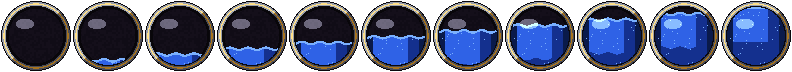
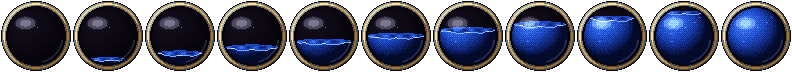
Orbes de vida y maná como esfera, sin el rectángulo adentro, con ola en cada nivel
El arte nuevo sale de PixelForja (submódulo en la rama claude/ecstatic-ramanujan-oq0r0o del taller) y el kit se
regeneró con npm run kit: solo cambian los cuatro PNG de orbes y los cuadros de orbe_*_ola (4 a 36). El HUD anima la
superficie en todos los niveles con líquido, la ola también se tiñe al quedarse sin maná y el orbe solo se ve vacío
en 0 y lleno en 100 %. Prueba e2e nueva de los niveles del orbe.

Claude-Session: https://claude.ai/code/session_01FVGDw8m8HkUtXF2k5wxUDf

diff --git a/src/game/ui/HudCombate.ts b/src/game/ui/HudCombate.ts
@@ -61,9 +61,12 @@ export class HudCombate {
     this.orbeMana = escena.add.image(0, 0, k('orbe_mana'), 10).setOrigin(0, 1)
     this.olaVida = escena.add.sprite(0, 0, k('orbe_vida_ola'), 0).setOrigin(0, 1).setVisible(false)
     this.olaMana = escena.add.sprite(0, 0, k('orbe_mana_ola'), 0).setOrigin(0, 1).setVisible(false)
-    for (const [n, s] of [['orbe_vida_ola', this.olaVida], ['orbe_mana_ola', this.olaMana]] as const) {
-      if (!escena.anims.exists(n)) escena.anims.create({ key: n, frames: escena.anims.generateFrameNumbers(k(n), { start: 0, end: 3 }), frameRate: 6, repeat: -1 })
-      s.play(n)
+    // una ola por nivel: el cuadro (N - 1) * 4 + t es el nivel N (1 a 9) en el paso t
+    for (const n of ['orbe_vida_ola', 'orbe_mana_ola']) {
+      for (let nivel = 1; nivel <= 9; nivel++) {
+        const key = `${n}_${nivel}`
+        if (!escena.anims.exists(key)) escena.anims.create({ key, frames: escena.anims.generateFrameNumbers(k(n), { start: (nivel - 1) * 4, end: (nivel - 1) * 4 + 3 }), frameRate: 6, repeat: -1 })
+      }
     }
     this.numVida = texto(escena, 0, 0, '', 'fuente_ui', 1, { origen: [0.5, 0.5], tinte: 0xffe9e9 })
     this.numMana = texto(escena, 0, 0, '', 'fuente_ui', 1, { origen: [0.5, 0.5], tinte: 0xe0ecff })
@@ -192,8 +195,10 @@ export class HudCombate {
     this.numVida.setText(String(Math.ceil(p.vida)))
     this.numMana.setText(String(Math.floor(p.mana)))
     this.flashMana = Math.max(0, this.flashMana - dt)
-    if (this.flashMana > 0) this.orbeMana.setTint(0xff7070)
-    else this.orbeMana.clearTint()
+    for (const o of [this.orbeMana, this.olaMana]) {
+      if (this.flashMana > 0) o.setTint(0xff7070)
+      else o.clearTint()
+    }
 
     // barra del jefe
     const j = this.mundo.jefe
@@ -243,12 +248,26 @@ export class HudCombate {
   }
 
   private pintarOrbe(img: Phaser.GameObjects.Image, ola: Phaser.GameObjects.Sprite, f: number): void {
-    const n = Math.round(f * 10)
-    // a media altura el orbe usa su versión con olas moviéndose
-    const usaOla = n >= 4 && n <= 6
+    // vacío solo en 0 y lleno solo en 100 %: con 1 punto de vida todavía se ve un poquito de líquido
+    const n = f <= 0 ? 0 : f >= 1 ? 10 : Phaser.Math.Clamp(Math.round(f * 10), 1, 9)
+    // con líquido y aire la superficie siempre se mueve, cada nivel con su propia ola
+    const usaOla = n >= 1 && n <= 9
     ola.setVisible(usaOla)
     img.setVisible(!usaOla)
-    if (!usaOla) img.setFrame(n)
+    if (!usaOla) {
+      img.setFrame(n)
+      return
+    }
+    const key = `${ola === this.olaVida ? 'orbe_vida_ola' : 'orbe_mana_ola'}_${n}`
+    // al cambiar de nivel sigue en el mismo paso de la ola, así no salta
+    if (ola.anims.currentAnim?.key !== key) ola.play({ key, startFrame: ola.anims.currentFrame ? ola.anims.currentFrame.index - 1 : 0 })
+  }
+
+  /** El nivel que muestra cada orbe (0 a 10), para las pruebas */
+  niveles() {
+    const de = (img: Phaser.GameObjects.Image, ola: Phaser.GameObjects.Sprite) =>
+      ola.visible ? Number(ola.anims.currentAnim?.key.split('_').pop()) : Number(img.frame.name)
+    return { vida: de(this.orbeVida, this.olaVida), mana: de(this.orbeMana, this.olaMana) }
   }
 
   destruir(): void {

diff --git a/e2e/combate.spec.ts b/e2e/combate.spec.ts
@@ -205,6 +205,30 @@ test.describe('Combate', () => {
     await expect.poll(async () => (await gancho<{ texto: string }>(page, 'hudNivel')).texto, { timeout: 10_000 }).toBe('¡Nivel 2!')
   })
 
+  test('los orbes muestran el nivel justo: lleno solo al 100 %, vacío solo en 0 y un poquito con 1 punto', async ({ page }) => {
+    await abrirMundo(page, 'sophie')
+    const orbes = () => gancho<{ vida: number; mana: number }>(page, 'hudOrbes')
+    const esperado = (f: number) => (f <= 0 ? 0 : f >= 1 ? 10 : Math.min(9, Math.max(1, Math.round(f * 10))))
+    await expect.poll(async () => (await orbes()).vida, { timeout: 10_000 }).toBe(10)
+    const c0 = await combate(page)
+    // a media vida
+    await gancho(page, 'danar', Math.round(c0.vidaMax * 0.45))
+    const c = await combate(page)
+    expect(c.caido).toBe(false)
+    await expect.poll(async () => (await orbes()).vida, { timeout: 10_000 }).toBe(esperado(c.vida / c.vidaMax))
+    expect((await orbes()).vida).toBeGreaterThan(1)
+    expect((await orbes()).vida).toBeLessThan(10)
+    // con 1 punto de vida no se ve vacío
+    await gancho(page, 'curarTodo')
+    const c1 = await combate(page)
+    await gancho(page, 'danar', c1.vidaMax - 1)
+    const c2 = await combate(page)
+    expect(c2.caido).toBe(false)
+    expect(c2.vida).toBeGreaterThan(0)
+    await expect.poll(async () => (await orbes()).vida, { timeout: 10_000 }).toBe(esperado(c2.vida / c2.vidaMax))
+    expect(await orbes().then((o) => o.vida)).toBeGreaterThanOrEqual(1)
+  })
+
   test('la interfaz de combate queda pegada al borde de abajo, sin encimarse', async ({ page }) => {
     await abrirMundo(page, 'sophie')
     const l = await gancho<{ orbeVida: R; orbeMana: R; cinturon: R; xp: R; botones: { x: number; y: number; lado: number }[] }>(page, 'hudCombate')

diff --git a/src/scenes/HUD.ts b/src/scenes/HUD.ts
@@ -99,7 +99,7 @@ export class HUD extends Phaser.Scene {
       this.game.events.off('nivel-subido', this.alNivel)
       this.game.events.off('rescate', this.alRescate)
       this.combate.destruir()
-      quitarGanchos('hudBanner', 'hudCartel', 'abrirPausa', 'hudCombate', 'hudNivel')
+      quitarGanchos('hudBanner', 'hudCartel', 'abrirPausa', 'hudCombate', 'hudOrbes', 'hudNivel')
     })
     alCambiarEscala(this, () => this.acomodar())
     this.actualizarContadores()
@@ -109,6 +109,7 @@ export class HUD extends Phaser.Scene {
       hudCartel: () => (this.cartel ? { abierto: true, ...this.cartelInfo } : { abierto: false }),
       abrirPausa: (() => this.abrirPausa()) as never,
       hudCombate: () => this.combate.layout(),
+      hudOrbes: () => this.combate.niveles(),
       hudNivel: () => ({ texto: this.bNivel.text, alpha: this.bNivel.alpha, rescate: this.bRescate.text, alphaRescate: this.bRescate.alpha }),
     })
   }

diff --git a/PROGRESO.md b/PROGRESO.md
@@ -50,6 +50,7 @@ Memoria de la sesión larga. Se actualiza al cerrar cada tarea.
 - F5, audio: el contexto se despierta al volver a ver la página (`visibilitychange`, `pageshow`, `focus`) y en cada toque. Los bucles son de WebAudio, no se cortan.
 - F5, pantalla completa: botón en la pausa (Android y PC). En iPad no existe la API y el botón dice "Instalar" y abre un panel con 3 pasos. Faltan los íconos de Safari: ASSETS_PENDIENTES.md #28.
 - F5, el kit ya está guardado en el repo (`public/assets/kit`, 634 archivos), así que construir NO necesita el submódulo privado. Por eso el plan B de Netlify es mucho más simple de lo que decía el plan: un GitHub Action manual (`.github/workflows/netlify.yml`) sin llaves del submódulo.
+- Orbes de vida y maná rehechos en PixelForja a pedido de Rick (se veía un rectángulo dentro del líquido). El defecto estaba en el arte, no en el juego: `orb()` en `tools/pixel_forja/src/engine/ui/hud.ts` sombreaba con cortes rectos. Ahora es una esfera de vidrio con tramado 4 x 4, superficie en elipse con espuma, burbujas y aro de hierro con hilo de oro. `orbe_*_ola` pasa a 36 cuadros (una ola por nivel 1 a 9). El HUD usa la ola en todos los niveles con líquido y aire, y el orbe solo se ve vacío en 0 y lleno en 100 % (con 1 punto de vida se ve un poquito). La regla de no tocar el taller se rompió a propósito porque Rick pidió el arreglo y el arte tiene que salir de PixelForja, no de código del juego. El cambio está en la rama `claude/ecstatic-ramanujan-oq0r0o` de `pixel_forja` y el submódulo apunta a ese commit.
 - F1b, las pruebas e2e llegan a cofres, carteles y fogatas por la parada del objeto (`teleport` a la parada): la caminata larga ya la cubre F1a.
 
 - Entrega del taller (5 tandas, submódulo en 8ba7f2a): adoptada en F1a. Decos usa tronco y copa por separado, pasto con sus anims, capa `superficie` para los pasos, 13 postales. Falta usar en sus fases: iconos de cartel (F1b), Abuelo que sonríe (F1b), títulos y logo (F1b), flecha y naturaleza (F2), botín bajo (F3), Thor cava (F3), minotauro 96 y carga (F4), íconos de app (F5). En balance se quitaron las escalas temporales del trol y del minotauro.
@@ -104,6 +105,10 @@ npm run typecheck && npm test && npm run build && npm run e2e
 - Para ganar rápido en una prueba: abrir `?test=1&heroe=rick` y en la consola `__ABYSS__.ponerNivel(10)`, `__ABYSS__.entrarArena()`, `__ABYSS__.danarJefe(9999)`.
 - Los avisos grandes se ven en el piso: círculo que se llena (pisotón y salto), elipse delante (golpe fuerte) y línea roja (la carga). En modo peque duran 1.8 s.
 
+### Orbes
+- `docs/capturas/f5/combate_amazona.png` y las demás `combate_*`: los orbes abajo a los lados.
+- `docs/capturas/f5/orbes_niveles.png`: los 11 niveles de vida y de maná, a 2x.
+
 ## Pasos solo de Rick
 
 ### 1. Publicar en Netlify (la forma más corta, sin tocar el submódulo)
@@ -133,5 +138,8 @@ El juego ya trae el kit dentro del repo, así que Netlify no necesita clonar `pi
 ### 4. Lighthouse
 En Chrome del escritorio, con el sitio abierto: F12, Lighthouse, Progressive Web App (si tu Chrome ya no trae la categoría, el panel Application, Manifest y Service workers muestran los mismos chequeos). No lo pude correr aquí: lo que sí está probado por pruebas automáticas es el manifest, el service worker y el modo sin red.
 
-### 5. Demo con las niñas
+### 5. Pasar los orbes nuevos a la rama del taller
+El submódulo sigue la rama `claude/perfeccionar-ejecucion-smh3ad` de `pixel_forja`, y el arreglo de los orbes quedó en `claude/ecstatic-ramanujan-oq0r0o` (un solo commit encima de 8ba7f2a). Antes del próximo `git submodule update --remote tools/pixel_forja`, mezclarlo en la rama del taller (PR o merge en GitHub). Si no, el `npm run kit` siguiente trae de vuelta los orbes viejos.
+
+### 6. Demo con las niñas
 Ver las secciones "Para que Rick revise" de cada fase.
